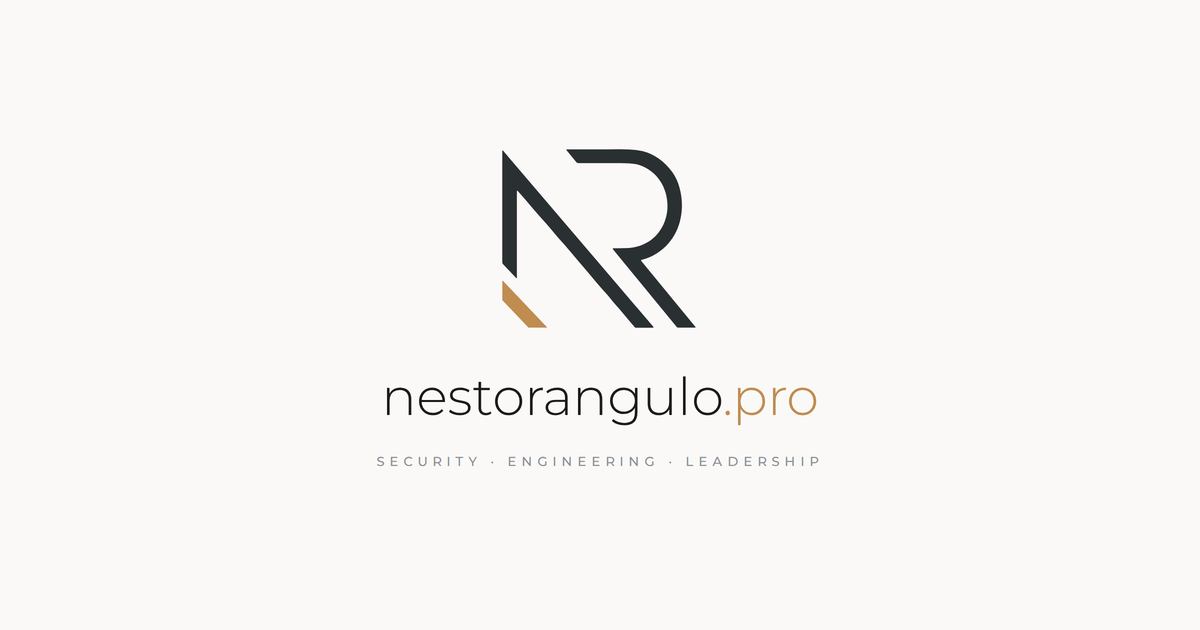
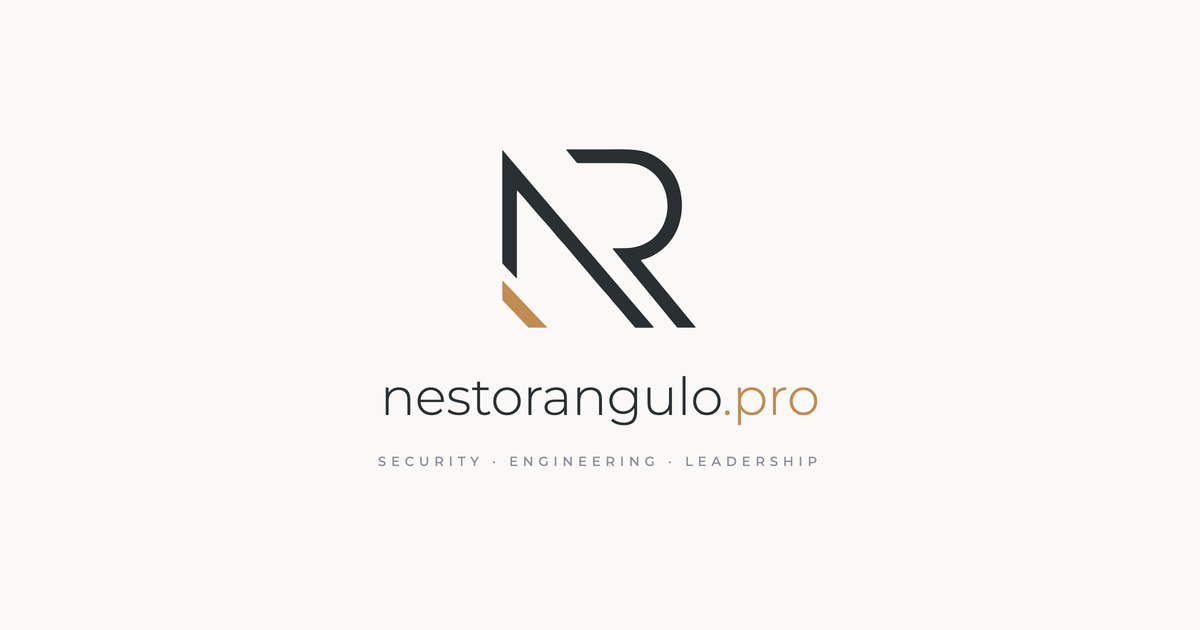
style(brand): align light-mode colours with the brand palette
The logos, favicon and social card already use the brand palette; the site's
CSS still used an older one. Change values only, no token renames:

- --clr-text #1c1917 -> #2a2f32 (brand ink, 12.9:1 on bg)
- --clr-border #e8e4df -> #c8c4bc (brand rule)
- --clr-subtle #a09d9a -> #8c8f97 (brand muted, 3.07:1, up from 2.56:1)
- --clr-muted stays #6b6663: the brand muted fails WCAG AA for body text,
  so secondary text keeps the darker grey (5.4:1). Documented in tokens.css.
- Social card wordmark #1c1917 -> #2a2f32; og-default.png regenerated.

Background, gold, --clr-on-accent and the whole dark theme are unchanged, so
favicon.svg, build-favicon.mjs and the theme-color metas need no update.

Replaces the retired style/brand-palette branch, which renamed every token,
conflicted with #60 and put the brand muted on body text.

diff --git a/src/styles/tokens.css b/src/styles/tokens.css
@@ -22,12 +22,18 @@
   --leading-loose: 1.8;
 
   /* ── Colours ─────────────────────────────────────────────── */
+  /* Light values follow the brand palette, the same one the logos, favicon and
+     social card use: background #faf9f7, ink #2a2f32, gold #c08c50, rule
+     #c8c4bc, muted #8c8f97. One deliberate exception: the brand muted is only
+     3.07:1 on the background, below WCAG AA (4.5:1) for body-size text, so it
+     is --clr-subtle (the faintest text, and an improvement on the old 2.56:1)
+     and --clr-muted keeps a darker grey for secondary text. */
   --clr-bg: #faf9f7; /* warm off-white */
   --clr-surface: #f3f1ee;
-  --clr-text: #1c1917; /* near-black, warm */
-  --clr-muted: #6b6663; /* warm mid-grey */
-  --clr-subtle: #a09d9a; /* light warm-grey */
-  --clr-border: #e8e4df;
+  --clr-text: #2a2f32; /* brand ink, 12.9:1 on bg */
+  --clr-muted: #6b6663; /* warm mid-grey, 5.4:1 on bg (AA) */
+  --clr-subtle: #8c8f97; /* brand muted, 3.07:1 on bg */
+  --clr-border: #c8c4bc; /* brand rule */
   --clr-accent: #c08c50; /* amber gold — brand */
   --clr-accent-hover: #a87740; /* amber gold -15% lightness */
   --clr-accent-light: #f5ead9; /* amber gold 10% tint */
